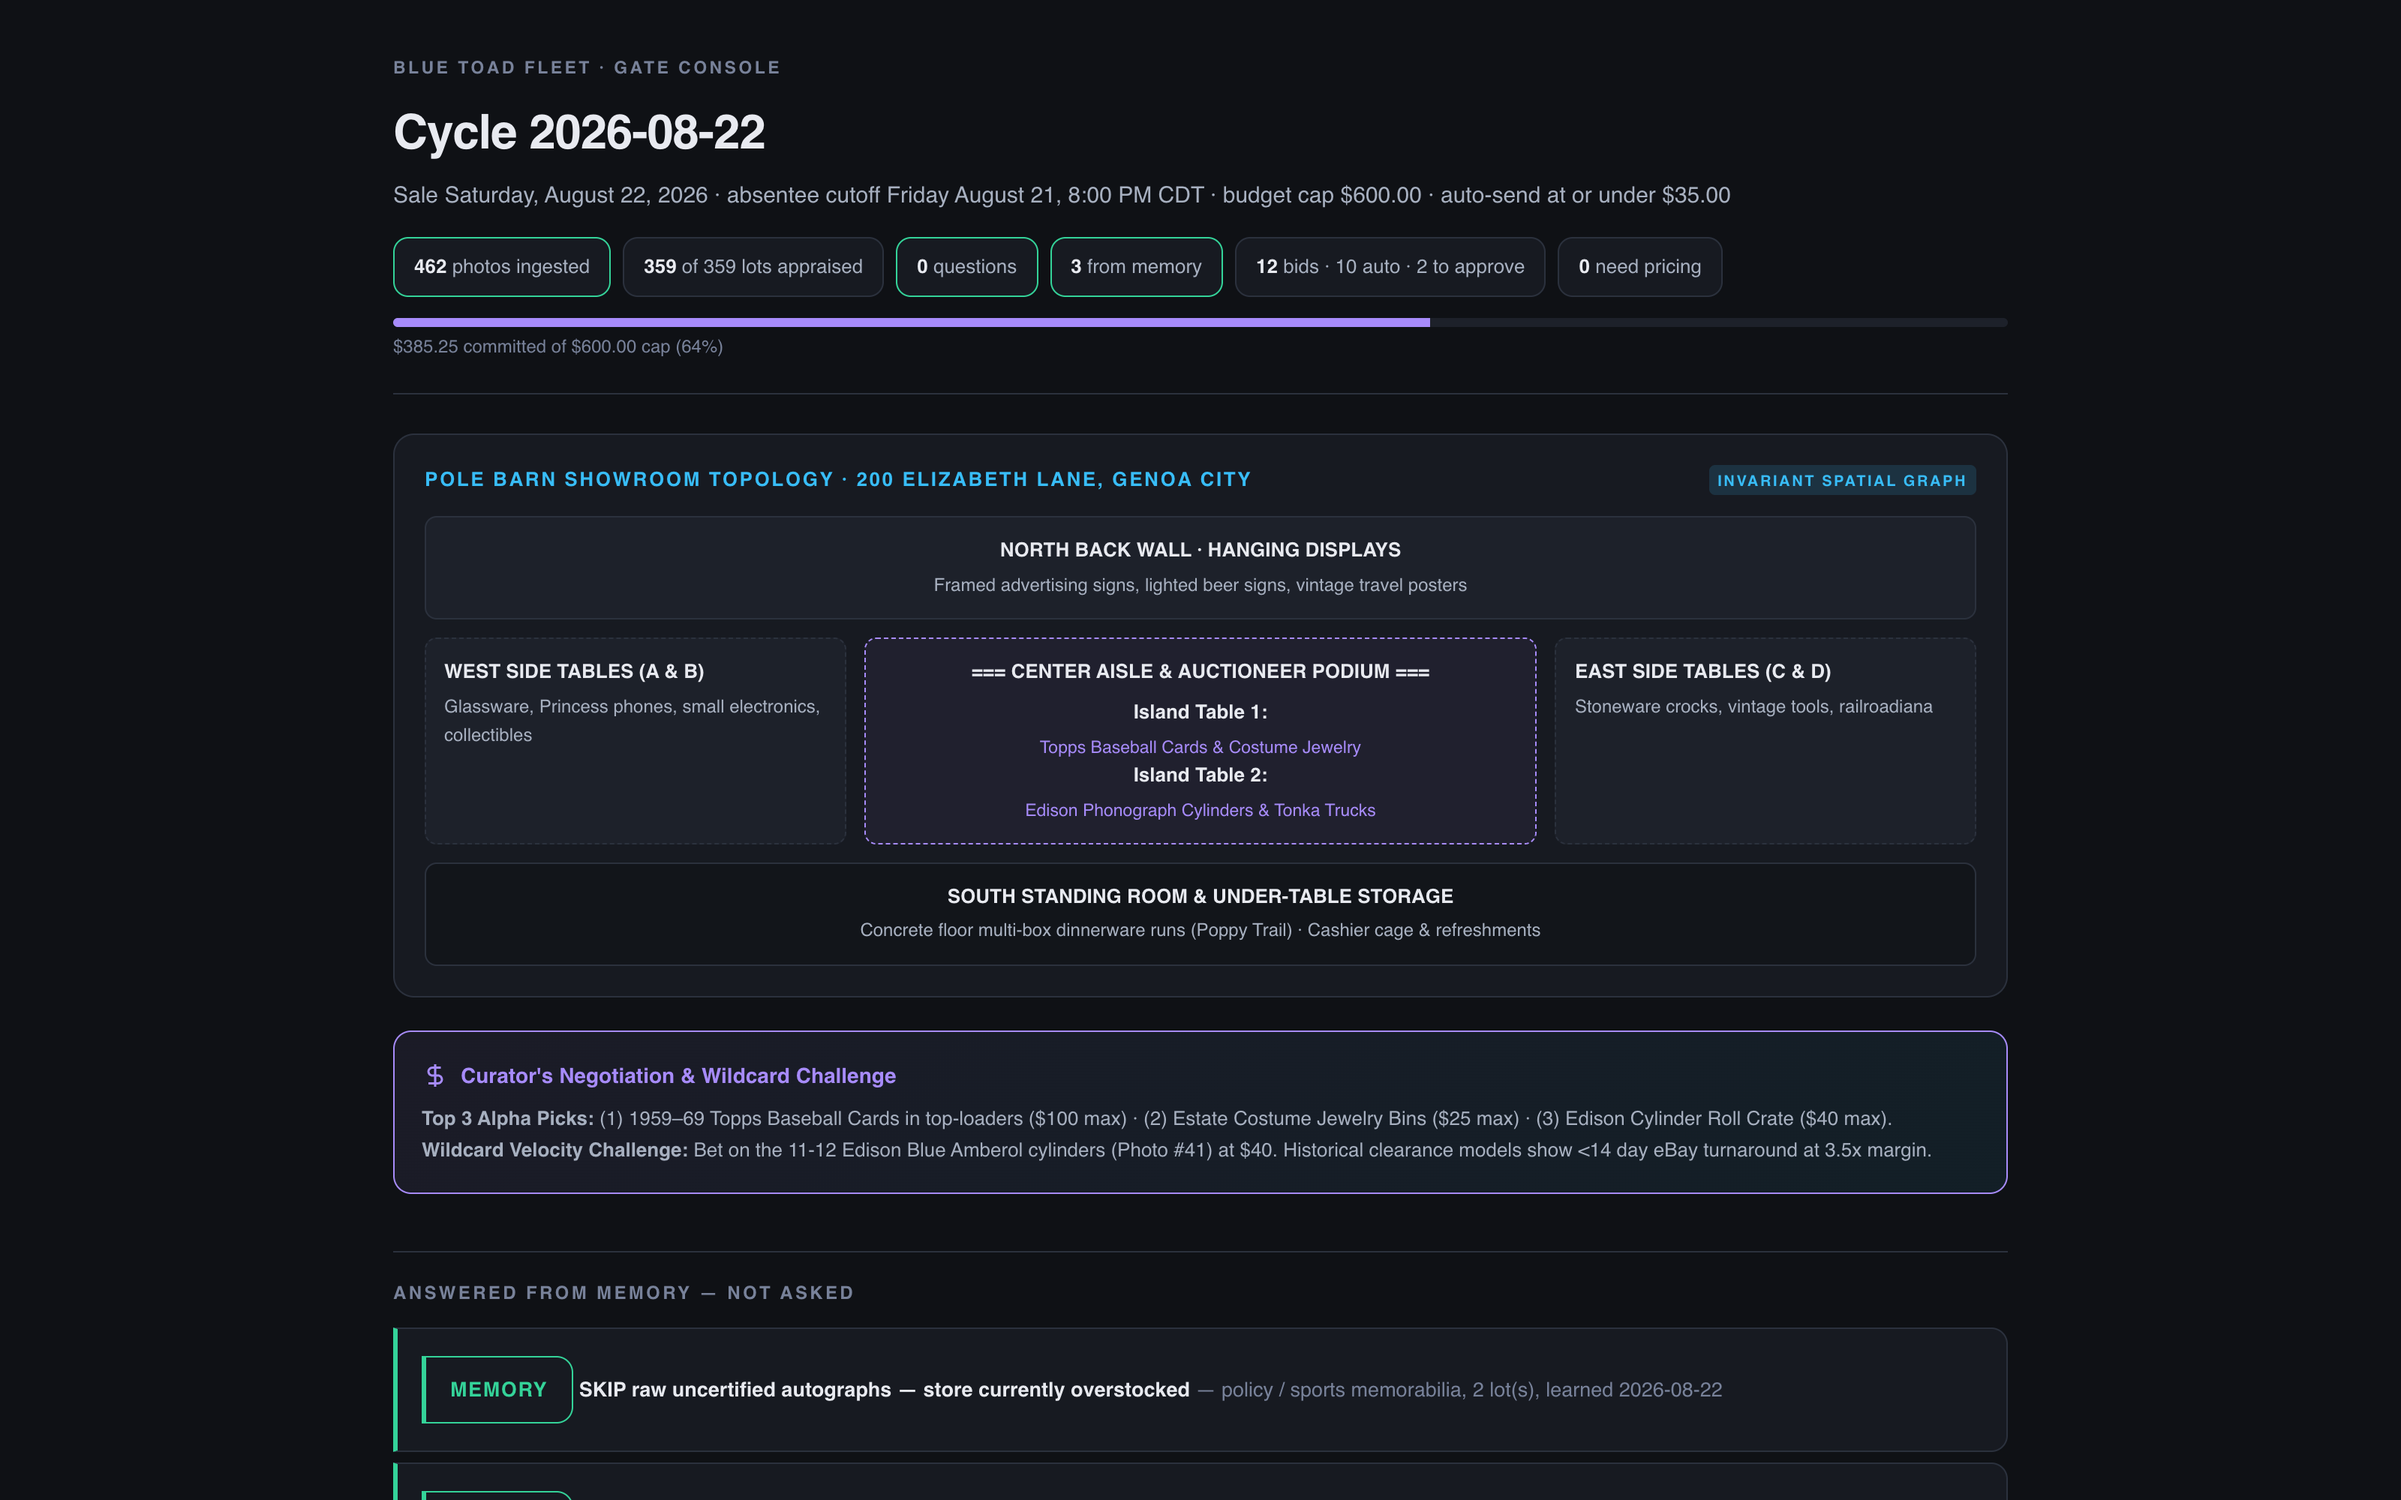
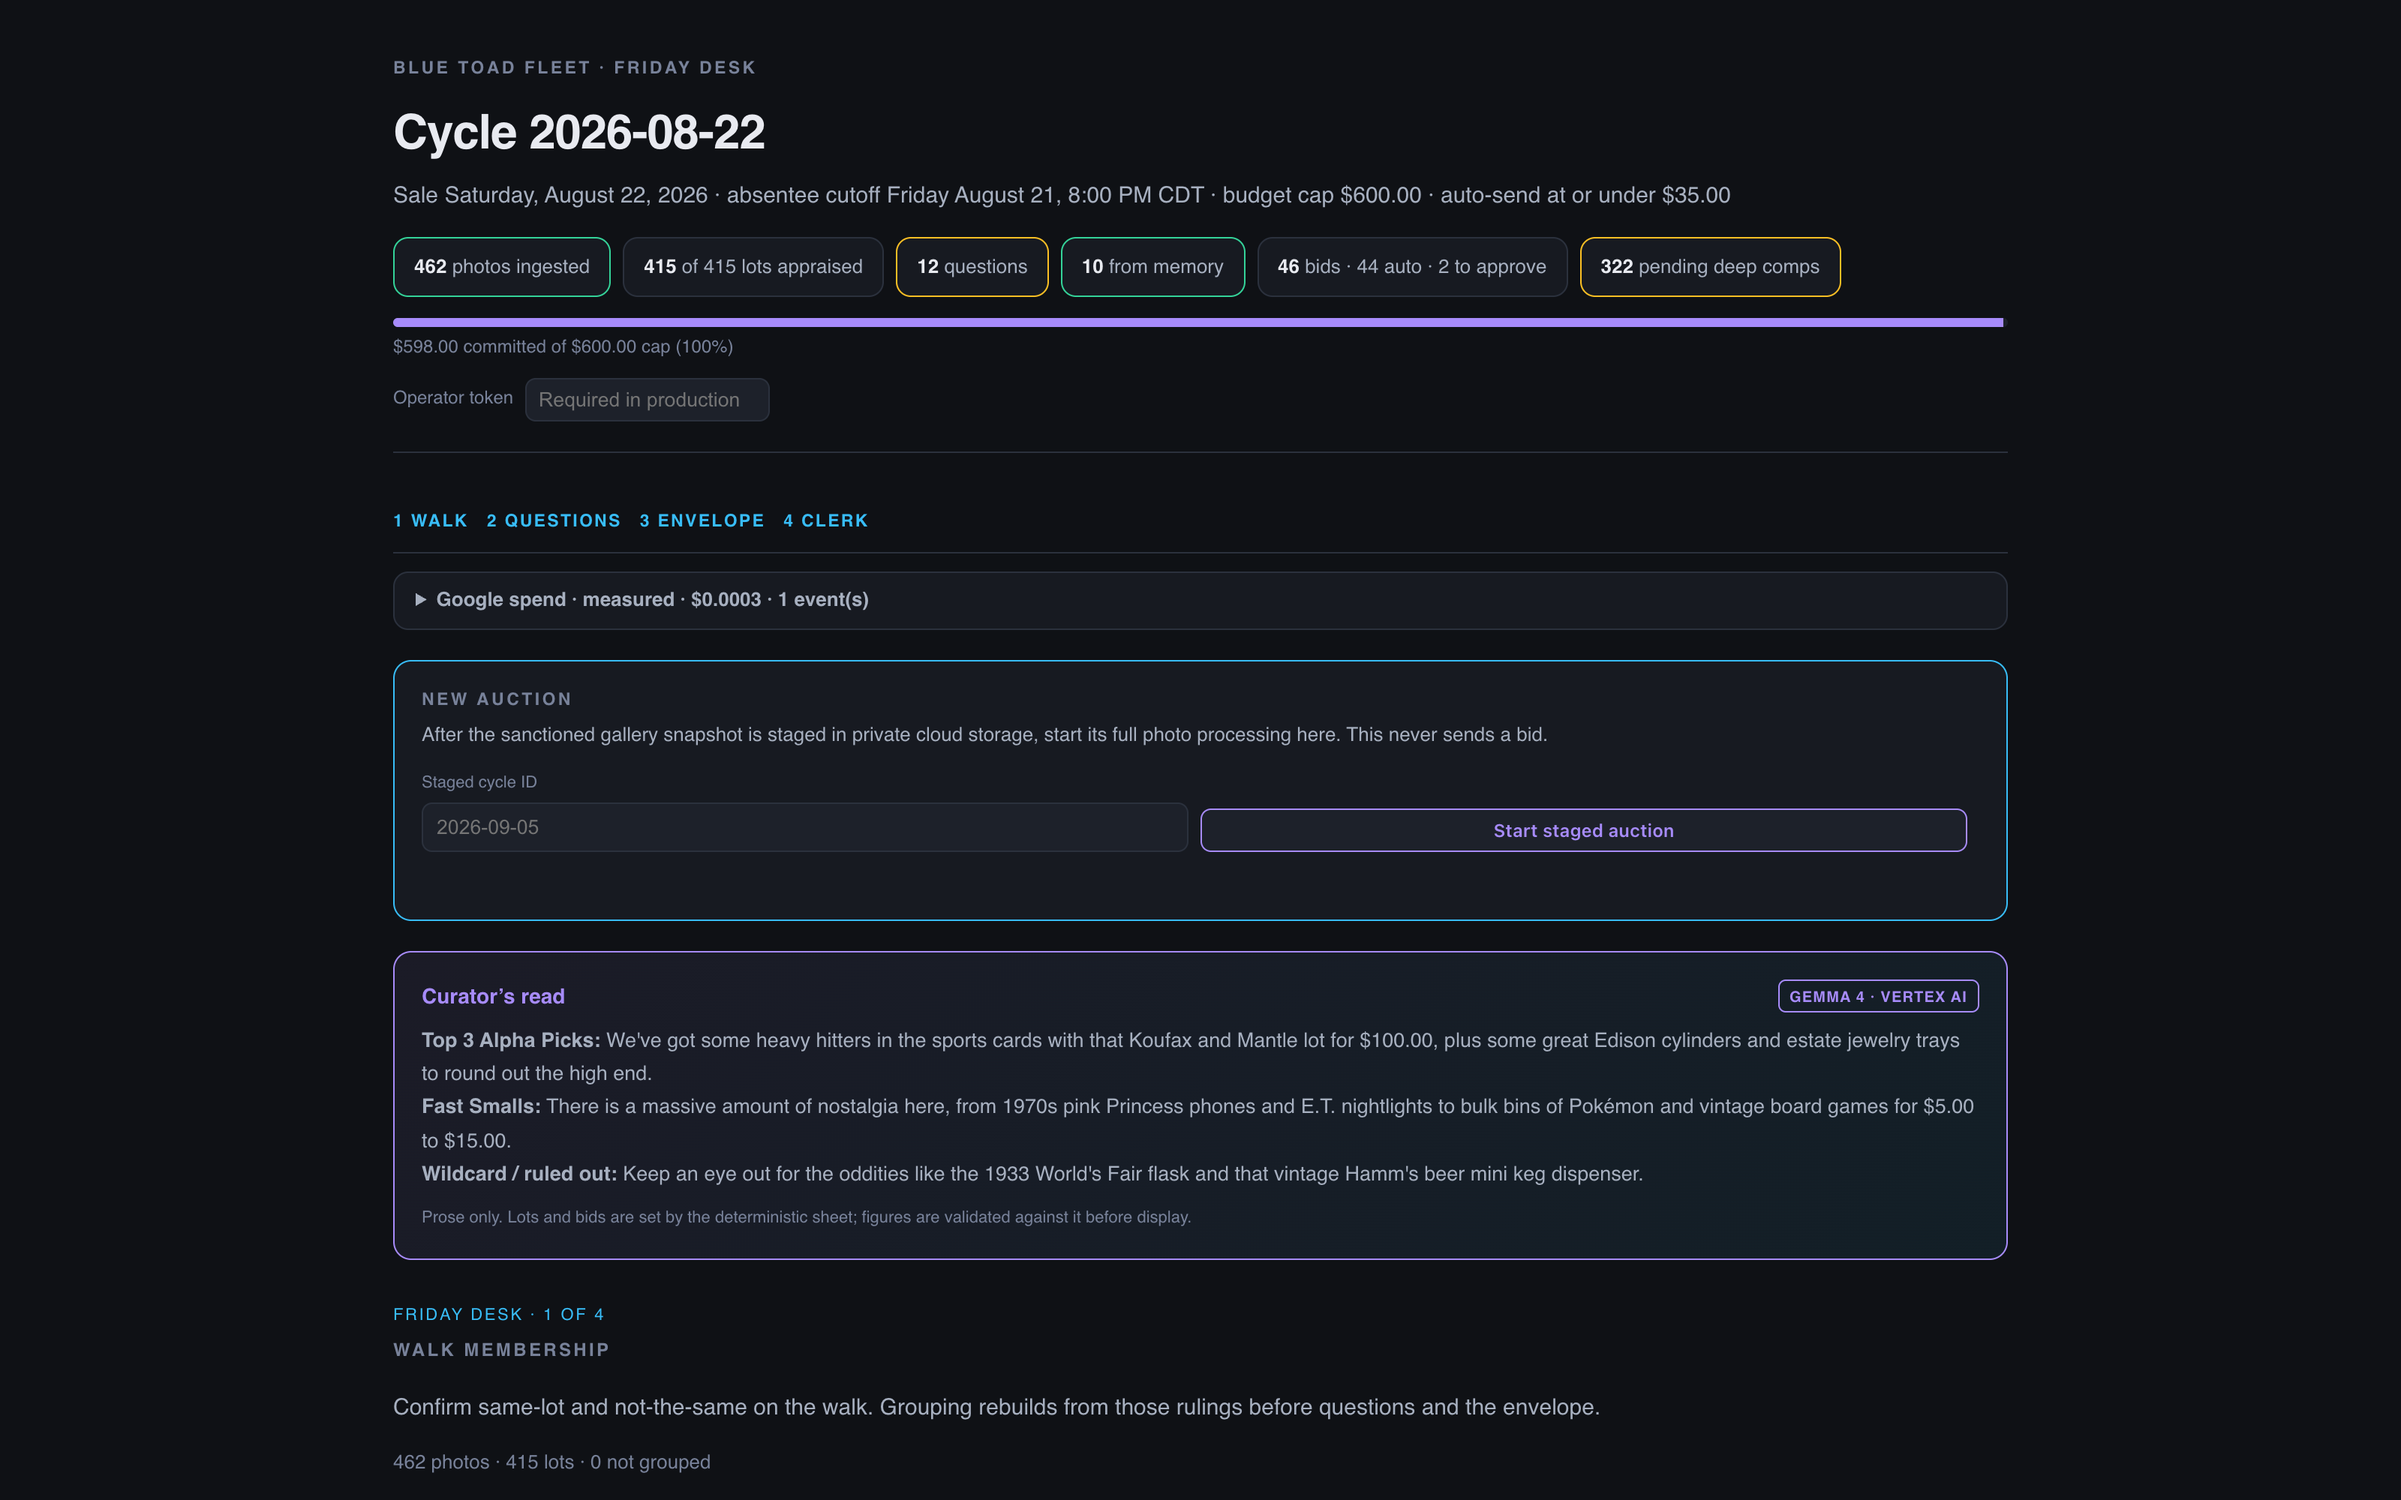
fix(capture): Friday-desk screenshot anchors, recapture live Gate stills
Walk membership replaces the pole-barn topology shot. Capture locates
headings instead of the last BT-00x string in the clerk draft.

diff --git a/tests/test_capture_scripts.py b/tests/test_capture_scripts.py
@@ -37,3 +37,15 @@ def test_screenshot_set_is_staged_before_any_publication():
     publish = source.index("for (const [partial, destination] of completed)")
     assert capture < publish
     assert "mkdtempSync" in source
+
+
+def test_screenshot_anchors_match_the_friday_desk_not_a_pole_barn():
+    source = (ROOT / "scripts/capture_screenshots.mjs").read_text()
+    assert "POLE BARN SHOWROOM TOPOLOGY" not in source
+    assert "02-walk-membership" in source
+    assert "Walk membership" in source
+    assert "Curator's read" in source
+    assert "The sheet" in source
+    assert "not on this envelope" in source
+    assert "'BT-001'" not in source
+    assert "'BT-003'" not in source

diff --git a/.grok/skills/devpost-submission/references/fill-form.md b/.grok/skills/devpost-submission/references/fill-form.md
@@ -12,11 +12,12 @@ Drive a **signed-in** Chrome. `open_page` / anonymous fetch hits the login wall 
   against `docs/SUBMISSION_CLAIMS.md` before assuming only additions are
   needed.
 - **Vet gallery images by their PIXELS, not their filenames.**
-  `docs/screenshots/01-gate-console.png` and `05-the-sheet.png` render the
-  old console: "POLE BARN SHOWROOM TOPOLOGY", "12 BID(S)", AUTO-SEND badges,
-  BT-181 allocated. No caption cures banned pixels. Use `00-raw-auction-gallery.png`,
-  fresh `cdp_capture.py` shots of the live console `/` and `/walk`, and the
-  Cloud-Run revisions capture instead.
+  Recaptured 2026-08-29 from the live Gate: `01-gate-console.png` is the
+  Friday desk (462 photos, 46 bids, $598 of $600), `05-the-sheet.png` is
+  "THE SHEET — 46 BID(S) ALLOCATED" with BT-001/BT-002. `02-showroom-topology.png`
+  is gone from the tree; `02-walk-membership.png` is walk membership, not a
+  room map — do not upload it as topology. No caption cures banned pixels.
+  Still open each PNG before attaching.
 - **Image captions cap at 140 characters** — the form flags overage with a
   red negative counter and refuses that caption on save.
 - **Additional Info arrived pre-filled WRONG:** SDK was set to
@@ -59,8 +60,8 @@ Fill from `docs/DEVPOST.md` **Form Fields Quick Reference** and **Project Story*
 | Built with | Form Fields **Built with (Tags)** |
 | Try it out | Form Fields **Try it out** links |
 | Inspiration / What it does / How we built it / Challenges / Accomplishments / What we learned / What's next | matching DEVPOST headings |
-| Demo video | `media/blue_toad_fleet_demo.mp4` |
-| Gallery images | `docs/screenshots/00-raw-auction-gallery.png`, `01-gate-console.png`, `05-the-sheet.png`. Add `media/video_inputs/cloud_console/revisions.png` for Cloud Run proof. Skip `02-showroom-topology.png` (historical; do not present as a pole-barn map). |
+| Demo video | Live widget is a YouTube/Vimeo/Facebook/Youku URL, not an MP4 upload. Current form value `https://youtu.be/PaLRNZLHi0c` (oembed title: Blue Toad Fleet — Demo). Also keep the GitHub MP4 as a Try-it-out link. |
+| Gallery images | `docs/screenshots/00-raw-auction-gallery.png`, `01-gate-console.png`, `05-the-sheet.png`. Add `media/video_inputs/cloud_console/revisions.png` for Cloud Run proof. Skip `02-showroom-topology.png` if still on disk (historical; do not present as a pole-barn map). Do not upload `02-walk-membership.png` as a reconstructed room map — it is Friday-desk walk membership. |
 
 **Save** (Update project). Do **not** click the hackathon **Submit** control unless the operator said to submit.
 
@@ -70,7 +71,7 @@ Read the saved page back against DEVPOST.md. Mismatched money or models → fix 
 
 URL: `.../additional-info/edit`
 
-Paste from DEVPOST.md **Additional Info**. Checkbox rules: `additional-info.md`. Upload `docs/architecture_diagram.png` into the architecture-diagram control.
+Paste from DEVPOST.md **Additional Info**. Checkbox rules: `additional-info.md`. Upload `docs/architecture_diagram.png` into the architecture-diagram control. Testing instructions is a single-line `string` input, not a textarea — collapse the DEVPOST block to fit (the live widget drops a ~627-character paste).
 
 Save. Do not Submit unless asked.
 

diff --git a/README.md b/README.md
@@ -192,7 +192,7 @@ not used as submission evidence or as an input to the current pipeline.
 ### The Output: Live Gate Console UI (Google Cloud Run)
 <div align="center">
   <img src="docs/screenshots/01-gate-console.png" width="48%" alt="Gate Console Header" style="border-radius: 8px;" />
-  <img src="docs/screenshots/02-showroom-topology.png" width="48%" alt="Historical Gate capture; replace after the release gate passes" style="border-radius: 8px;" />
+  <img src="docs/screenshots/02-walk-membership.png" width="48%" alt="Walk membership on the Friday desk" style="border-radius: 8px;" />
 </div>
 
 ### Cloud-backed cycle kickoff
